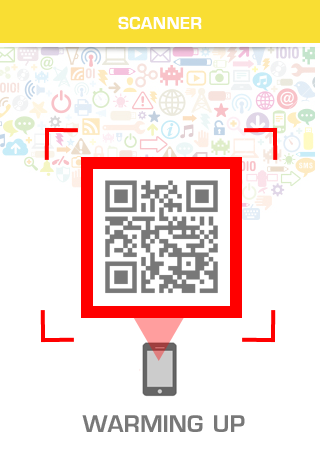
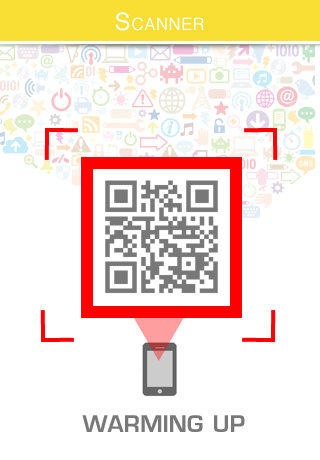
Add new images and implement new scanner view

diff --git a/Resources/Libraries/zxing/iphone/ZXingWidget/Classes/OverlayView.m b/Resources/Libraries/zxing/iphone/ZXingWidget/Classes/OverlayView.m
@@ -141,20 +141,71 @@ static const CGFloat kPadding = 10;
 }
 
 -(void)showViewForaWhile{
-    UIImageView *aimAimgeView   =   (UIImageView*)[self viewWithTag:25];
+    UIImageView *aimAimgeView   =   (UIImageView*)[self viewWithTag:TAG_SCANNER_AIM_SCAN];
     aimAimgeView.hidden         =   TRUE;
+}
+
+-(void)animateLabels{
+    //UIImageView *toogleImgView  =   (UIImageView*)[self viewWithTag:TAG_TOGGLE_IMGVIEW];
+    
+    UILabel *toggleLabel        =   (UILabel*)[self viewWithTag:TAG_SCANNER_TOGGLE_LABEL];
+    
+    UIImageView *lineImage      =   (UIImageView*)[self viewWithTag:TAG_SCANNER_LINE];
+    if (lineImage.isHighlighted) {
+        [toggleLabel setText:@"Hode over code to auto scan"];
+        lineImage.highlighted   =   FALSE;
+    }else {
+        [toggleLabel setText:@"Scanning ...."];
+        lineImage.highlighted   =   TRUE;
+    }  
+}
+
+-(void)stopAllAnimations{
+    if (toggleTimer) {
+        [toggleTimer invalidate];
+        toggleTimer     =   nil;
+    }
+    if (moveLineTimer) {
+        [moveLineTimer invalidate];
+        moveLineTimer   =   nil;
+    }
+   
+}
+
+-(void)startAnimations{
+    if (toggleTimer == nil) {
+        toggleTimer     =   [NSTimer scheduledTimerWithTimeInterval:0.5 target:self selector:@selector(animateLabels) userInfo:nil repeats:YES];
+        moveLineTimer   =   [NSTimer scheduledTimerWithTimeInterval:0.01 target:self selector:@selector(animateLine) userInfo:nil repeats:YES];
+    }
+   
+}
+
+
+
+-(void)animateLine{
+    UIImageView *lineImage      =   (UIImageView*)[self viewWithTag:TAG_SCANNER_LINE];
+    if (lineYOne >= 130 && lineYOne < 330 && lineYTwo == 330) {
+        lineYOne    =   lineYOne+1;
+    }else if(lineYOne == 330){
+        lineYTwo    =   130;
+        lineYOne    =   lineYOne-1;
+    }else if(lineYOne > 130 && lineYTwo == 130){
+        lineYOne    =   lineYOne-1;
+    }else if(lineYOne == 130){
+        lineYTwo    =   330;
+        lineYOne    =   lineYOne+1;
+    }
+    lineImage.frame         =   CGRectMake(lineImage.frame.origin.x, lineYOne, lineImage.frame.size.width, lineImage.frame.size.height);
 }
 
 -(void)setNavBarItems{
     if (navBarView == nil) {
         navBarView                  =   [[UIView alloc]initWithFrame:CGRectMake(0.0, 0.0, 320.0, 51.0)];
-        UIImage *testImage          =   [UIImage imageNamed:@"scanner_nav"];
-        UIImageView *navImgView     =   [[UIImageView alloc]initWithImage:testImage];
-        navImgView.backgroundColor  =   [UIColor clearColor];
         
-        navImgView.frame            =   CGRectMake(0.0, 0.0, 320.0, 51.0);
-        [navBarView addSubview:navImgView];
-        [navImgView release];
+        UIImageView *frameImgView   =   [[UIImageView alloc]initWithFrame:CGRectMake(0.0, 0.0, 320.0, 460.0)];
+        frameImgView.image          =   [UIImage imageNamed:@"scanner_frame"];
+        [self addSubview:frameImgView];
+        [frameImgView release];
         
         UIButton *backButton        =   [UIButton buttonWithType:UIButtonTypeCustom];
         backButton.frame            =   CGRectMake(0, 4.0, 47, 34.0);
@@ -171,44 +222,45 @@ static const CGFloat kPadding = 10;
         [self addSubview:navBarView];
         [navBarView release];
         
-        UIImageView *frameImgView   =   [[UIImageView alloc]initWithFrame:CGRectMake(0.0, 44.0, 320.0, 416.0)];
-        frameImgView.image          =   [UIImage imageNamed:@"scanner_frame"];
-        [self addSubview:frameImgView];
-        [frameImgView release];
         
+        /*
         UIImageView *aimImgView     =   [[UIImageView alloc]initWithImage:[UIImage imageNamed:@"aim2scan_bg"]];
         aimImgView.frame            =   CGRectMake(40.0, 129.0, 234.0, 216.0);
         [self addSubview:aimImgView];
-        [aimImgView release];
+        [aimImgView release];*/
         
         UIImageView *aimtextImgView     =   [[UIImageView alloc]initWithImage:[UIImage imageNamed:@"aim2scan"]];
-        aimtextImgView.frame            =   CGRectMake(65.0, 202.0, 184, 69.0);
-        aimtextImgView.tag              =   25;
+        aimtextImgView.frame            =   CGRectMake(65.0, 190.0, 184, 69.0);
+        aimtextImgView.tag              =   TAG_SCANNER_AIM_SCAN;
         [self addSubview:aimtextImgView];
         [aimtextImgView release];
         
         
-        UIImageView *heading            =   [[UIImageView alloc]initWithFrame:CGRectMake(116, 12, 89, 19)];
-        heading.image                   =   [UIImage imageNamed:@"scanner_navText"];
-        [self addSubview:heading];
-        [heading release];
-        
-        UIImageView *imgViewtext        =   [[UIImageView alloc]initWithFrame:CGRectMake(103, 70, 16, 22)];
+        UIImageView *imgViewtext        =   [[UIImageView alloc]initWithFrame:CGRectMake(54.0, 70, 16, 22)];
         imgViewtext.image               =   [UIImage imageNamed:@"scanner_text"];
+        imgViewtext.tag                 =   TAG_TOGGLE_IMGVIEW;
         [self addSubview:imgViewtext];
         [imgViewtext release];
         
-        UILabel *scanLabel              =   [[UILabel alloc]initWithFrame:CGRectMake(127.0, 69.0, 158.0, 21.0)];
-        scanLabel.font                  =   [UIFont fontWithName:@"HelveticaNeue" size:12.0];
+        UILabel *scanLabel              =   [[UILabel alloc]initWithFrame:CGRectMake(0.0, 69.0, 320.0, 21.0)];
+        scanLabel.font                  =   [UIFont fontWithName:@"HelveticaNeue-Bold" size:12.0];
         scanLabel.textColor             =   [UIColor whiteColor];
-        scanLabel.shadowColor           =   [UIColor colorWithRed:(CGFloat)60/255 green:(CGFloat)63/255 blue:(CGFloat)68/255 alpha:1.0];
-        scanLabel.shadowOffset          =   CGSizeMake(0, 1);
+        scanLabel.textAlignment         =   UITextAlignmentCenter;
+        scanLabel.tag                   =   TAG_SCANNER_TOGGLE_LABEL;
         scanLabel.backgroundColor       =   [UIColor clearColor];
-        scanLabel.text                  =   @"Scan QR codes";
+        scanLabel.text                  =   @"Hode over code to auto scan";//Scanning ....
         [self addSubview:scanLabel];
         [scanLabel release];
         
         
+        UIImageView *lineImageView      =   [[UIImageView alloc]initWithFrame:CGRectMake(12.0, 130.0, 296.0, 11.0)];
+        [lineImageView setImage:[UIImage imageNamed:@"scannera_redline"]];
+        lineImageView.tag               =   TAG_SCANNER_LINE;
+        [lineImageView setHighlightedImage:[UIImage imageNamed:@"scanner_yellowline"]];
+        [self addSubview:lineImageView];
+        [lineImageView release];
+        
+        /*
         UILabel *scanDownLabel              =   [[UILabel alloc]initWithFrame:CGRectMake(30.0, 384.0, 255.0, 64.0)];
         scanDownLabel.font                  =   [UIFont fontWithName:@"HelveticaNeue" size:12.0];
         scanDownLabel.textColor             =   [UIColor whiteColor];
@@ -219,12 +271,13 @@ static const CGFloat kPadding = 10;
         scanDownLabel.shadowOffset          =   CGSizeMake(0, 1);
         scanDownLabel.text                  =   @"To auto scan code, simply aim and hold.     Place code upright. Avoid glare and shadows.";
         [self addSubview:scanDownLabel];
-        [scanDownLabel release];
+        [scanDownLabel release];*/
         
-        
-        
+        lineYOne                            =   130;
+        lineYTwo                            =   330;
         
         [self performSelector:@selector(showViewForaWhile) withObject:nil afterDelay:1.0f];
+        
     }
 
 }

diff --git a/Resources/Libraries/zxing/iphone/ZXingWidget/Classes/OverlayView.h b/Resources/Libraries/zxing/iphone/ZXingWidget/Classes/OverlayView.h
@@ -13,8 +13,12 @@
  * See the License for the specific language governing permissions and
  * limitations under the License.
  */
-
+#define TAG_SCANNER_LINE    20
+#define TAG_SCANNER_TOGGLE_LABEL    21
+#define TAG_SCANNER_AIM_SCAN        22
+#define TAG_TOGGLE_IMGVIEW          23
 #import <UIKit/UIKit.h>
+#import <QuartzCore/QuartzCore.h>
 
 @protocol CancelDelegate;
 
@@ -29,6 +33,10 @@
   NSString *displayedMessage;
 
     UIView *navBarView;
+    NSTimer *toggleTimer;
+    NSTimer *moveLineTimer;
+    CGFloat lineYOne,lineYTwo;
+
 }
 
 @property (nonatomic, retain) NSMutableArray*  points;
@@ -40,6 +48,8 @@
 - (id)initWithFrame:(CGRect)theFrame cancelEnabled:(BOOL)isCancelEnabled oneDMode:(BOOL)isOneDModeEnabled;
 
 - (void)setPoint:(CGPoint)point;
+-(void)stopAllAnimations;
+-(void)startAnimations;
 @end
 
 @protocol CancelDelegate

diff --git a/Resources/Libraries/zxing/iphone/ZXingWidget/Classes/ZXingWidgetController.m b/Resources/Libraries/zxing/iphone/ZXingWidget/Classes/ZXingWidgetController.m
@@ -89,6 +89,7 @@
 
 - (void)cancelled {
   [self stopCapture];
+    
 //  if (!self.isStatusBarHidden) {
 //    [[UIApplication sharedApplication] setStatusBarHidden:NO];
 //  }
@@ -121,6 +122,7 @@
 
 - (void)viewWillAppear:(BOOL)animated {
   [super viewWillAppear:animated];
+    [overlayView startAnimations];
   self.wantsFullScreenLayout = YES;
   if ([self soundToPlay] != nil) {
     OSStatus error = AudioServicesCreateSystemSoundID((CFURLRef)[self soundToPlay], &beepSound);
@@ -145,11 +147,14 @@
   wasCancelled = NO;
 }
 
+
 - (void)viewDidDisappear:(BOOL)animated {
   [super viewDidDisappear:animated];
 //  if (!isStatusBarHidden)
 //    [[UIApplication sharedApplication] setStatusBarHidden:NO];
+    [overlayView stopAllAnimations];
   [self.overlayView removeFromSuperview];
+    
   [self stopCapture];
 }
 
